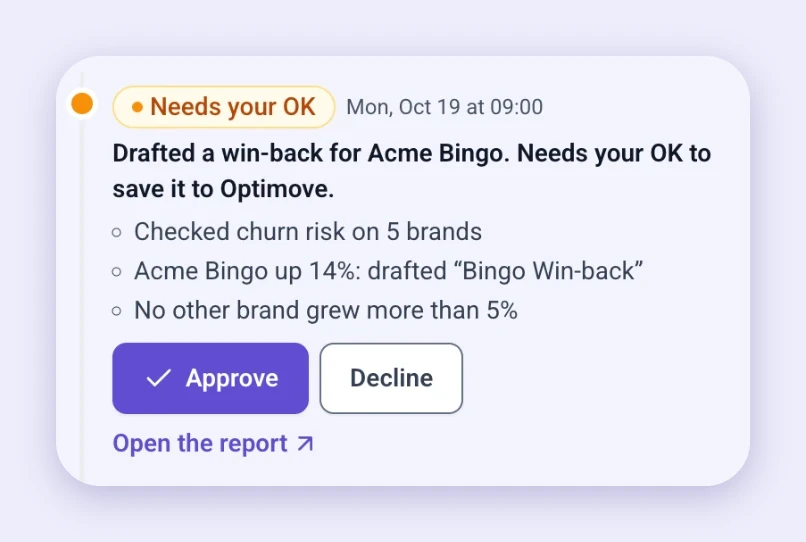
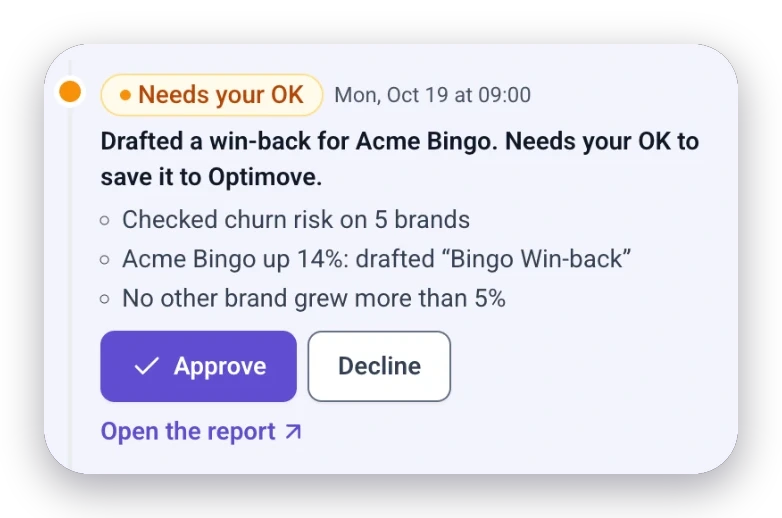
design(optigenie): decisions 01-03 smaller, more spacing, hairline before Instead of, transparent crops on a lavender panel

Changed region(s): [[0.0307, 0.1236, 0.9514, 0.9575], [0.1228, 0.556, 0.6445, 0.8649], [0.1228, 0.4015, 0.798, 0.5251]]

diff --git a/optigenie.html b/optigenie.html
@@ -370,7 +370,7 @@
 .ux-block-head { display: block; margin-bottom: clamp(2rem, 3vw, 3rem); }
 .ux-block-head p { margin-top: .9rem; max-width: 72ch; }
     </style>
-<style>.wireframe-study .wireframe-figure{margin:auto 0 0}.wireframe-study .ads-shot img{cursor:default}@media (min-width:721px){.ads-meta{grid-template-columns:repeat(3,minmax(0,1fr))}}.wireframe-grid.streams-three{grid-template-columns:repeat(3,minmax(0,1fr))}#build .ux-block{margin-top:var(--block-gap)}.ads-wrap > .media-story.media-story--lead{margin-top:0;padding-top:0;border-top:0}.media-story.media-story--lead .ads-h2{max-width:16ch;margin:0 0 1.5rem}@media (max-width:1100px){.wireframe-grid.streams-three{grid-template-columns:minmax(0,1fr)}}.princ,.story-phases article{border-top:0;padding-top:0}.intro-copy .ads-body + .ads-body{margin-top:1rem}#dry-run .story-opening--page + .case-figure,#decisions .story-opening--page + .case-figure{margin-top:clamp(2.5rem,4vw,4rem);padding-top:0;border-top:0}#decisions .case-figure + .case-figure{margin-top:clamp(1.5rem,2.5vw,2.5rem);padding-top:0;border-top:0}.story-phases h3{max-width:none}.og-instead{margin-top:1.25rem;color:var(--muted,#6b6a8a);font-size:.95rem}.og-instead span{display:block;color:var(--violet);font-size:.7rem;font-weight:600;letter-spacing:.12em;text-transform:uppercase;margin-bottom:.35rem}.story-opening--page .intro-copy{max-width:110ch}@media (min-width:1500px){.story-phases h3{white-space:nowrap}}@media (min-width:1100px){}</style>
+<style>.wireframe-study .wireframe-figure{margin:auto 0 0}.wireframe-study .ads-shot img{cursor:default}@media (min-width:721px){.ads-meta{grid-template-columns:repeat(3,minmax(0,1fr))}}.wireframe-grid.streams-three{grid-template-columns:repeat(3,minmax(0,1fr))}#build .ux-block{margin-top:var(--block-gap)}.ads-wrap > .media-story.media-story--lead{margin-top:0;padding-top:0;border-top:0}.media-story.media-story--lead .ads-h2{max-width:16ch;margin:0 0 1.5rem}@media (max-width:1100px){.wireframe-grid.streams-three{grid-template-columns:minmax(0,1fr)}}.princ,.story-phases article{border-top:0;padding-top:0}.intro-copy .ads-body + .ads-body{margin-top:1rem}#dry-run .story-opening--page + .case-figure,#decisions .story-opening--page + .case-figure{margin-top:clamp(2.5rem,4vw,4rem);padding-top:0;border-top:0}#decisions .case-figure + .case-figure{margin-top:clamp(1.5rem,2.5vw,2.5rem);padding-top:0;border-top:0}.story-phases h3{max-width:none}.og-decision{--case-columns:minmax(0,.9fr) minmax(0,1.1fr);align-items:center;gap:clamp(2.5rem,7vw,8rem);padding-block:clamp(3.5rem,6vw,6.5rem)}.og-decision .media-story-copy{max-width:30rem}.og-decision .media-story-copy h3{font-size:clamp(1.6rem,2.4vw,2.2rem);line-height:1.15;margin:0 0 1.25rem;max-width:14ch}.og-decision > .case-figure{max-width:min(100%,460px)!important;justify-self:center;width:100%}.og-decision .ads-shot{padding:clamp(.5rem,2vw,1.5rem);border-radius:28px;background:#ededfb}.og-decision .ads-shot img{display:block;width:100%;height:auto}.og-instead{margin-top:1.75rem;padding-top:1.25rem;border-top:1px solid var(--line);color:var(--muted);font-size:.95rem;line-height:1.55}.og-instead span{display:block;color:var(--violet);font-size:.7rem;font-weight:600;letter-spacing:.12em;text-transform:uppercase;margin-bottom:.4rem}.story-opening--page .intro-copy{max-width:110ch}@media (min-width:1500px){.story-phases h3{white-space:nowrap}}@media (min-width:1100px){}</style>
 <style>
 /* Animated pencil sketches (sketch_anim.py). Without the .is-armed hook everything is simply drawn. */
 @font-face{font-family:Caveat;font-style:normal;font-weight:500;font-display:swap;src:url(./assets/streams/caveat-500.ttf) format("truetype")}
@@ -898,7 +898,7 @@ body::after { content: ""; position: fixed; inset: 0; z-index: 9000; pointer-eve
             <p class="sub fade-up">OptiGenie is Optimove’s AI assistant for CRM marketers and the managers who follow their work. I led its first mobile app from the UX and feature set to the MVP.</p>
         </div></section>
         <section class="ads-sec ads-sec--mist" id="challenge" data-rail="The challenge"><div class="ads-wrap"><div class="story-opening story-opening--page story-opening--sketch"><div class="ads-head fade-up"><p class="ads-label page-chapter">The challenge</p><h2 class="ads-h2">Bringing OptiGenie to mobile</h2><p class="ads-body">OptiGenie 3.1 had grown on desktop, with memory, artifacts, dashboards and scheduled tasks, all inside one long conversation. I led its move to the phone, a strategic product for the company, from the first UX decisions and feature set to the MVP.</p><p class="ads-body">On the phone it serves two users with overlapping needs. CRM marketers want a fast, clear update and a bird’s-eye view of their brands and campaigns, then to act on what needs them. Managers want the picture of the marketing activity without running it. Rather than two apps, both start from the same summary and go as deep as they need: Dashboards for the view at a glance, Explore and Tasks for acting on it.</p><p class="ads-body">Three things made that hard.</p><p class="ads-body"><strong>A lot to look at, one right story.</strong> Optimove holds a lot of data and a lot of things to view: brands, campaigns, customers and channels, plus memory, artifacts, dashboards and tasks. On a small screen it can’t all be shown at once, so the app has to navigate it for the marketer and tell the right story: what changed, what matters and what needs them.</p><p class="ads-body"><strong>Answers came as paragraphs.</strong> The figures were right, but on a small screen the marketer read a wall of words to find the one number that mattered.</p><p class="ads-body"><strong>The AI acts on its own.</strong> Tasks run on a schedule and can change campaigns, so the marketer has to see what it did and decide what it may do without asking.</p><p class="ads-body">The work was to answer all three in one product for the phone, on the Optimove design system.</p></div><figure class="story-sketch fade-up" tabindex="0" aria-label="The challenge; scroll sideways on small screens"><svg class="mg" id="mg-og-challenge" viewBox="0 0 520 710" role="img" aria-label="OptiGenie 3.1 on desktop (memory, artifacts, dashboards and tasks) becomes one mobile app on the Optimove design system: Optimove's first mobile app, led from UX to MVP, and growing past the MVP." data-dur="7.6" xmlns="http://www.w3.org/2000/svg"><g aria-hidden="true"><g class="drop" style="--d:0.00s"><rect x="40" y="29" width="440" height="160" rx="16" fill="#aca4ea" stroke="#1d1850" stroke-width="2.0"/><rect x="40" y="20" width="440" height="160" rx="16" fill="#ffffff" stroke="#1d1850" stroke-width="2.0"/><path d="M51.2 23.2 H468.8" stroke="#ffffff" stroke-width="2.4" stroke-linecap="round" opacity=".75" fill="none"/><g transform="translate(260.0 60) scale(1.0)"><path class="tx" d="M-20 -14 H20 V10 H-20 Z" fill="#ffffff" stroke="none" style="--d:0.40s;--t:.3s"/><path class="dr" d="M-20 -14 H20 V10 H-20 Z" pathLength="1" fill="none" stroke="#1d1850" stroke-width="3.0" stroke-linecap="round" stroke-linejoin="round" style="--d:0.30s;--t:0.35s"/><path class="dr" d="M-6 10 V16 M6 10 V16 M-10 16 H10" pathLength="1" fill="none" stroke="#1d1850" stroke-width="3.0" stroke-linecap="round" stroke-linejoin="round" style="--d:0.42s;--t:0.35s"/></g><g class="pop" style="--d:0.45s"><circle cx="466" cy="26" r="17" fill="#4a37c9" stroke="#1d1850" stroke-width="2.0"/><circle cx="466" cy="22" r="17" fill="#8f7af8" stroke="#1d1850" stroke-width="2.0"/><g transform="translate(466 22) scale(0.45)"><path class="dr" d="M0 -18 C1.5 -6 6 -1.5 18 0 C6 1.5 1.5 6 0 18 C-1.5 6 -6 1.5 -18 0 C-6 -1.5 -1.5 -6 0 -18 Z" pathLength="1" fill="none" stroke="#ffffff" stroke-width="4.4" stroke-linecap="round" stroke-linejoin="round" style="--d:0.65s;--t:0.35s"/></g></g></g><text class="w" x="260.0" y="106" font-size="25" font-weight="800" text-anchor="middle" fill="#1d1850" data-max="416" style="--d:0.30s;--t:0.45s">OptiGenie 3.1</text><text class="tx mut" x="260.0" y="133" font-size="16" font-weight="500" text-anchor="middle" fill="#1d1850" data-max="416" style="--d:0.45s;--t:0.40s">on desktop: memory, artifacts,</text><text class="tx mut" x="260.0" y="155" font-size="16" font-weight="500" text-anchor="middle" fill="#1d1850" data-max="416" style="--d:0.53s;--t:0.40s">dashboards and tasks</text><path class="dr" d="M260 194 Q260.0 215.0 260 236" pathLength="1" fill="none" stroke="#1d1850" stroke-width="2.8" stroke-linecap="round" style="--d:0.70s;--t:0.30s"/><path class="dr" d="M254.7 226.3 L260 236 L265.3 226.3" pathLength="1" fill="none" stroke="#1d1850" stroke-width="2.8" stroke-linecap="round" stroke-linejoin="round" style="--d:0.94s;--t:.2s"/><g class="drop" style="--d:1.00s"><rect x="40" y="259" width="440" height="160" rx="16" fill="#c6e92b" stroke="#1d1850" stroke-width="2.0"/><rect x="40" y="250" width="440" height="160" rx="16" fill="#ffffff" stroke="#1d1850" stroke-width="2.0"/><path d="M51.2 253.2 H468.8" stroke="#ffffff" stroke-width="2.4" stroke-linecap="round" opacity=".75" fill="none"/><g transform="translate(260.0 290) scale(1.0)"><path class="tx" d="M-12 -20 H12 V20 H-12 Z" fill="#ffffff" stroke="none" style="--d:1.40s;--t:.3s"/><path class="dr" d="M-12 -20 H12 V20 H-12 Z" pathLength="1" fill="none" stroke="#1d1850" stroke-width="3.0" stroke-linecap="round" stroke-linejoin="round" style="--d:1.30s;--t:0.35s"/><path class="dr" d="M-4 15 H4" pathLength="1" fill="none" stroke="#1d1850" stroke-width="3.0" stroke-linecap="round" stroke-linejoin="round" style="--d:1.42s;--t:0.35s"/></g></g><text class="w" x="260.0" y="336" font-size="25" font-weight="800" text-anchor="middle" fill="#1d1850" data-max="416" style="--d:1.30s;--t:0.45s">One mobile app</text><text class="tx mut" x="260.0" y="363" font-size="16" font-weight="500" text-anchor="middle" fill="#1d1850" data-max="416" style="--d:1.45s;--t:0.40s">on the Optimove</text><text class="tx mut" x="260.0" y="385" font-size="16" font-weight="500" text-anchor="middle" fill="#1d1850" data-max="416" style="--d:1.53s;--t:0.40s">design system</text><path class="dr" d="M260 424 Q260.0 445.0 260 466" pathLength="1" fill="none" stroke="#1d1850" stroke-width="2.8" stroke-linecap="round" style="--d:1.70s;--t:0.30s"/><path class="dr" d="M254.7 456.3 L260 466 L265.3 456.3" pathLength="1" fill="none" stroke="#1d1850" stroke-width="2.8" stroke-linecap="round" stroke-linejoin="round" style="--d:1.94s;--t:.2s"/><g class="drop" style="--d:2.00s"><rect x="40" y="489" width="440" height="160" rx="16" fill="#aca4ea" stroke="#1d1850" stroke-width="2.0"/><rect x="40" y="480" width="440" height="160" rx="16" fill="#ffffff" stroke="#1d1850" stroke-width="2.0"/><path d="M51.2 483.2 H468.8" stroke="#ffffff" stroke-width="2.4" stroke-linecap="round" opacity=".75" fill="none"/><g transform="translate(260.0 520) scale(1.0)"><path class="tx" d="M-18 0 a18 18 0 1 0 36 0 a18 18 0 1 0 -36 0" fill="#ffffff" stroke="none" style="--d:2.40s;--t:.3s"/><path class="dr" d="M-18 0 a18 18 0 1 0 36 0 a18 18 0 1 0 -36 0" pathLength="1" fill="none" stroke="#1d1850" stroke-width="3.0" stroke-linecap="round" stroke-linejoin="round" style="--d:2.30s;--t:0.35s"/><path class="dr" d="M-5 -8 L9 0 L-5 8 Z" pathLength="1" fill="none" stroke="#1d1850" stroke-width="3.0" stroke-linecap="round" stroke-linejoin="round" style="--d:2.42s;--t:0.35s"/></g></g><text class="w" x="260.0" y="566" font-size="25" font-weight="800" text-anchor="middle" fill="#1d1850" data-max="416" style="--d:2.30s;--t:0.45s">A strategic first</text><text class="tx mut" x="260.0" y="593" font-size="16" font-weight="500" text-anchor="middle" fill="#1d1850" data-max="416" style="--d:2.45s;--t:0.40s">Optimove’s first mobile app,</text><text class="tx mut" x="260.0" y="615" font-size="16" font-weight="500" text-anchor="middle" fill="#1d1850" data-max="416" style="--d:2.53s;--t:0.40s">led from UX to MVP</text><text class="tx mut" x="260" y="690" font-size="17" font-weight="600" text-anchor="middle" fill="#1d1850" data-max="400" style="--d:2.70s;--t:0.40s">and growing past the MVP</text></g></svg></figure></div></div></section>
-        <section class="ads-sec" id="discovery" data-rail="Discovery &amp; definition"><div class="ads-wrap"><p class="ads-label page-chapter fade-up">Discovery &amp; definition</p><div class="story-opening story-opening--page story-opening--stack"><div class="ads-head fade-up"><h2 class="ads-h2">Main UX decisions</h2></div><div class="intro-copy fade-up"><p class="ads-body">Bringing OptiGenie 3.1 from desktop to the phone meant more than fitting it on a smaller screen. On desktop it is a long conversation in a wide window; on a phone, a visit is often a quick check. Every call came back to one question: what does the marketer need in the first few seconds, and what can wait a tap away. These are the decisions that shaped the app most: where you start, where things live, what the AI does on its own, and how it shows an answer.</p></div></div><div class="media-story og-decision"><div class="media-story-copy fade-up"><div><p class="media-kicker">01 · Starting point</p><h3>Open on what matters</h3></div><div><p>The home says what OptiGenie can do and what is coming up next, and suggests the questions worth asking.</p><p class="og-instead"><span>Instead of</span> an empty box waiting for the right question.</p></div></div><figure class="case-figure fade-up" style="--media-max:520px"><div class="ads-shot"><img loading="lazy" decoding="async" src="./assets/optigenie/dec-home.webp?v=6edd2babd0c8" width="824" height="962" alt="The OptiGenie home: a greeting, the next scheduled tasks under Coming up, and two suggested questions."></div></figure></div><div class="media-story og-decision"><div class="media-story-copy fade-up"><div><p class="media-kicker">02 · Structure</p><h3>Explore and Dashboards as tabs</h3></div><div><p>Marketers ask new questions, and they check the same numbers every morning. The views they follow get their own tab, refreshed on a schedule, a swipe from where they ask: the conversation is the way in, not the whole product. Everything else sits in one menu, on every screen.</p><p class="og-instead"><span>Instead of</span> one long chat history that holds everything.</p></div></div><figure class="case-figure fade-up" style="--media-max:520px"><div class="ads-shot"><img loading="lazy" decoding="async" src="./assets/optigenie/dec-tabs.webp?v=eec76aa0785e" width="826" height="1182" alt="The Dashboards tab: a live Deposits yesterday dashboard with its chart and refresh time, and the Explore and Dashboards switch at the bottom."></div></figure></div><div class="media-story og-decision"><div class="media-story-copy fade-up"><div><p class="media-kicker">03 · Trust</p><h3>Visible steps, approval by choice</h3></div><div><p>OptiGenie shows the steps it takes while it works. Whether a task asks before it changes anything in Optimove is the marketer’s call: Ask me first or Run on its own. Sending to customers always asks.</p><p class="og-instead"><span>Instead of</span> an AI that acts without showing what it did.</p></div></div><figure class="case-figure fade-up" style="--media-max:620px"><div class="ads-shot"><img loading="lazy" decoding="async" src="./assets/optigenie/dec-approval.webp?v=eee7fd296569" width="806" height="542" alt="A task run that Needs your OK: the steps OptiGenie took, a drafted win-back, and Approve and Decline buttons."></div></figure></div><div class="media-story"><div class="media-story-copy fade-up"><div><p class="media-kicker">04 · Answers</p><h3>Answers you can see, not read</h3></div><div><p>The same answer, twice, with the same figures. Written as paragraphs, on the left, everything is there and the marketer has to dig for it. Built as UI, on the right, it opens on one sentence that makes the point, then each figure takes the form that fits it: a big number for yesterday, bars for the week, KPI cards with their change for the period. Words are kept for what a chart can’t say: why it moved and what to do next.</p></div></div><figure class="case-figure fade-up" style="--media-max:900px"><div class="ads-shot" data-full="./assets/optigenie/answers-text-vs-ui.webp?v=6848a3ed656a" data-width="1896" data-height="1692" data-title="The same answer as text and as UI"><img loading="lazy" decoding="async" src="./assets/optigenie/answers-text-vs-ui.webp?v=6848a3ed656a" width="1896" height="1692" alt="Two phones answering How are my brands doing? with the same figures. Left: six paragraphs of text. Right: one sentence with the point, a deposits card with €748.4K and a bar for each day, and KPI cards for net revenue €2.66M up 6.5% and revenue per customer €45 up 10.1%."></div></figure></div></div></section>
+        <section class="ads-sec" id="discovery" data-rail="Discovery &amp; definition"><div class="ads-wrap"><p class="ads-label page-chapter fade-up">Discovery &amp; definition</p><div class="story-opening story-opening--page story-opening--stack"><div class="ads-head fade-up"><h2 class="ads-h2">Main UX decisions</h2></div><div class="intro-copy fade-up"><p class="ads-body">Bringing OptiGenie 3.1 from desktop to the phone meant more than fitting it on a smaller screen. On desktop it is a long conversation in a wide window; on a phone, a visit is often a quick check. Every call came back to one question: what does the marketer need in the first few seconds, and what can wait a tap away. These are the decisions that shaped the app most: where you start, where things live, what the AI does on its own, and how it shows an answer.</p></div></div><div class="media-story og-decision"><div class="media-story-copy fade-up"><div><p class="media-kicker">01 · Starting point</p><h3>Open on what matters</h3></div><div><p>The home says what OptiGenie can do and what is coming up next, and suggests the questions worth asking.</p><p class="og-instead"><span>Instead of</span> an empty box waiting for the right question.</p></div></div><figure class="case-figure fade-up" style="--media-max:520px"><div class="ads-shot"><img loading="lazy" decoding="async" src="./assets/optigenie/dec-home.webp?v=672947592bf2" width="800" height="938" alt="The OptiGenie home: a greeting, the next scheduled tasks under Coming up, and two suggested questions."></div></figure></div><div class="media-story og-decision"><div class="media-story-copy fade-up"><div><p class="media-kicker">02 · Structure</p><h3>Explore and Dashboards as tabs</h3></div><div><p>Marketers ask new questions, and they check the same numbers every morning. The views they follow get their own tab, refreshed on a schedule, a swipe from where they ask: the conversation is the way in, not the whole product. Everything else sits in one menu, on every screen.</p><p class="og-instead"><span>Instead of</span> one long chat history that holds everything.</p></div></div><figure class="case-figure fade-up" style="--media-max:520px"><div class="ads-shot"><img loading="lazy" decoding="async" src="./assets/optigenie/dec-tabs.webp?v=5454b1a1668f" width="802" height="1158" alt="The Dashboards tab: a live Deposits yesterday dashboard with its chart and refresh time, and the Explore and Dashboards switch at the bottom."></div></figure></div><div class="media-story og-decision"><div class="media-story-copy fade-up"><div><p class="media-kicker">03 · Trust</p><h3>Visible steps, approval by choice</h3></div><div><p>OptiGenie shows the steps it takes while it works. Whether a task asks before it changes anything in Optimove is the marketer’s call: Ask me first or Run on its own. Sending to customers always asks.</p><p class="og-instead"><span>Instead of</span> an AI that acts without showing what it did.</p></div></div><figure class="case-figure fade-up" style="--media-max:620px"><div class="ads-shot"><img loading="lazy" decoding="async" src="./assets/optigenie/dec-approval.webp?v=6fe26c807a85" width="782" height="518" alt="A task run that Needs your OK: the steps OptiGenie took, a drafted win-back, and Approve and Decline buttons."></div></figure></div><div class="media-story"><div class="media-story-copy fade-up"><div><p class="media-kicker">04 · Answers</p><h3>Answers you can see, not read</h3></div><div><p>The same answer, twice, with the same figures. Written as paragraphs, on the left, everything is there and the marketer has to dig for it. Built as UI, on the right, it opens on one sentence that makes the point, then each figure takes the form that fits it: a big number for yesterday, bars for the week, KPI cards with their change for the period. Words are kept for what a chart can’t say: why it moved and what to do next.</p></div></div><figure class="case-figure fade-up" style="--media-max:900px"><div class="ads-shot" data-full="./assets/optigenie/answers-text-vs-ui.webp?v=6848a3ed656a" data-width="1896" data-height="1692" data-title="The same answer as text and as UI"><img loading="lazy" decoding="async" src="./assets/optigenie/answers-text-vs-ui.webp?v=6848a3ed656a" width="1896" height="1692" alt="Two phones answering How are my brands doing? with the same figures. Left: six paragraphs of text. Right: one sentence with the point, a deposits card with €748.4K and a bar for each day, and KPI cards for net revenue €2.66M up 6.5% and revenue per customer €45 up 10.1%."></div></figure></div></div></section>
         <section class="ads-sec ads-sec--mist" id="ux-process" data-rail="UX decisions &amp; flows"><div class="ads-wrap"><p class="ads-label page-chapter fade-up">UX decisions &amp; flows</p><div class="story-opening story-opening--page story-opening--sketch"><div class="ads-head fade-up"><h2 class="ads-h2">Navigation model</h2><p class="ads-body">Every screen is a step from Explore or Dashboards, and the menu opens from all of them. Back always goes up one level: a task returns to the task list, a dashboard opened from the full list returns there.</p><p class="ads-body">Swipe and tap do the same thing, with the same motion, so the two never feel like different actions.</p></div><figure class="story-sketch fade-up" tabindex="0" aria-label="App map; scroll sideways on small screens"><svg class="mg" id="mg-og-flow" viewBox="0 0 1200 500" role="img" aria-label="Sign-in leads to Explore, which swaps with Dashboards by a swipe. Explore opens an answer that can be saved as a dashboard; Dashboards opens a live dashboard. The menu opens from every screen and holds Tasks, Artifacts, Chats and Settings. Back always goes up one level." data-dur="7.6" xmlns="http://www.w3.org/2000/svg"><g aria-hidden="true"><g class="drop" style="--d:0.00s"><rect x="20" y="69" width="210" height="150" rx="16" fill="#aca4ea" stroke="#1d1850" stroke-width="2.0"/><rect x="20" y="60" width="210" height="150" rx="16" fill="#ffffff" stroke="#1d1850" stroke-width="2.0"/><path d="M31.2 63.2 H218.8" stroke="#ffffff" stroke-width="2.4" stroke-linecap="round" opacity=".75" fill="none"/><g transform="translate(125.0 100) scale(1.0)"><path class="tx" d="M-16 -6 a16 16 0 0 1 32 0 V14 H-16 Z" fill="#ffffff" stroke="none" style="--d:0.40s;--t:.3s"/><path class="dr" d="M-16 -6 a16 16 0 0 1 32 0 V14 H-16 Z" pathLength="1" fill="none" stroke="#1d1850" stroke-width="3.0" stroke-linecap="round" stroke-linejoin="round" style="--d:0.30s;--t:0.35s"/><path class="dr" d="M-6 -6 a6 6 0 0 1 12 0" pathLength="1" fill="none" stroke="#1d1850" stroke-width="3.0" stroke-linecap="round" stroke-linejoin="round" style="--d:0.42s;--t:0.35s"/></g></g><text class="w" x="125.0" y="146" font-size="25" font-weight="800" text-anchor="middle" fill="#1d1850" data-max="186" style="--d:0.30s;--t:0.45s">Sign-in</text><text class="tx mut" x="125.0" y="173" font-size="16" font-weight="500" text-anchor="middle" fill="#1d1850" data-max="186" style="--d:0.45s;--t:0.40s">once, then remembered</text><path class="dr" d="M240 135 Q270.0 135.0 300 135" pathLength="1" fill="none" stroke="#1d1850" stroke-width="2.8" stroke-linecap="round" style="--d:0.50s;--t:0.30s"/><path class="dr" d="M291.2 139.8 L300 135 L291.2 130.2" pathLength="1" fill="none" stroke="#1d1850" stroke-width="2.8" stroke-linecap="round" stroke-linejoin="round" style="--d:0.74s;--t:.2s"/><g class="drop" style="--d:0.70s"><rect x="310" y="69" width="210" height="150" rx="16" fill="#aca4ea" stroke="#1d1850" stroke-width="2.0"/><rect x="310" y="60" width="210" height="150" rx="16" fill="#ffffff" stroke="#1d1850" stroke-width="2.0"/><path d="M321.2 63.2 H508.8" stroke="#ffffff" stroke-width="2.4" stroke-linecap="round" opacity=".75" fill="none"/><g transform="translate(415.0 100) scale(1.0)"><path class="tx" d="M-19 -15 H19 V8 H-4 L-13 17 V8 H-19 Z" fill="#ffffff" stroke="none" style="--d:1.10s;--t:.3s"/><path class="dr" d="M-19 -15 H19 V8 H-4 L-13 17 V8 H-19 Z" pathLength="1" fill="none" stroke="#1d1850" stroke-width="3.0" stroke-linecap="round" stroke-linejoin="round" style="--d:1.00s;--t:0.35s"/><path class="dr" d="M-10 -4 H10" pathLength="1" fill="none" stroke="#1d1850" stroke-width="3.0" stroke-linecap="round" stroke-linejoin="round" style="--d:1.12s;--t:0.35s"/><path class="dr" d="M-10 2 H4" pathLength="1" fill="none" stroke="#1d1850" stroke-width="3.0" stroke-linecap="round" stroke-linejoin="round" style="--d:1.24s;--t:0.35s"/></g></g><text class="w" x="415.0" y="146" font-size="25" font-weight="800" text-anchor="middle" fill="#1d1850" data-max="186" style="--d:1.00s;--t:0.45s">Explore</text><text class="tx mut" x="415.0" y="173" font-size="16" font-weight="500" text-anchor="middle" fill="#1d1850" data-max="186" style="--d:1.15s;--t:0.40s">ask</text><g class="drop" style="--d:1.10s"><rect x="600" y="69" width="210" height="150" rx="16" fill="#c6e92b" stroke="#1d1850" stroke-width="2.0"/><rect x="600" y="60" width="210" height="150" rx="16" fill="#ffffff" stroke="#1d1850" stroke-width="2.0"/><path d="M611.2 63.2 H798.8" stroke="#ffffff" stroke-width="2.4" stroke-linecap="round" opacity=".75" fill="none"/><g transform="translate(705.0 100) scale(1.0)"><path class="dr" d="M-15 15 V3" pathLength="1" fill="none" stroke="#1d1850" stroke-width="3.0" stroke-linecap="round" stroke-linejoin="round" style="--d:1.40s;--t:0.35s"/><path class="dr" d="M-5 15 V-7" pathLength="1" fill="none" stroke="#1d1850" stroke-width="3.0" stroke-linecap="round" stroke-linejoin="round" style="--d:1.52s;--t:0.35s"/><path class="dr" d="M5 15 V-1" pathLength="1" fill="none" stroke="#1d1850" stroke-width="3.0" stroke-linecap="round" stroke-linejoin="round" style="--d:1.64s;--t:0.35s"/><path class="dr" d="M15 15 V-15" pathLength="1" fill="none" stroke="#1d1850" stroke-width="3.0" stroke-linecap="round" stroke-linejoin="round" style="--d:1.76s;--t:0.35s"/><path class="dr" d="M-20 15 H20" pathLength="1" fill="none" stroke="#1d1850" stroke-width="3.0" stroke-linecap="round" stroke-linejoin="round" style="--d:1.88s;--t:0.35s"/></g></g><text class="w" x="705.0" y="146" font-size="25" font-weight="800" text-anchor="middle" fill="#1d1850" data-max="186" style="--d:1.40s;--t:0.45s">Dashboards</text><text class="tx mut" x="705.0" y="173" font-size="16" font-weight="500" text-anchor="middle" fill="#1d1850" data-max="186" style="--d:1.55s;--t:0.40s">follow</text><path class="dr" d="M530 118 Q560.0 118.0 590 118" pathLength="1" fill="none" stroke="#1d1850" stroke-width="2.8" stroke-linecap="round" style="--d:1.50s;--t:0.25s"/><path class="dr" d="M581.2 122.8 L590 118 L581.2 113.2" pathLength="1" fill="none" stroke="#1d1850" stroke-width="2.8" stroke-linecap="round" stroke-linejoin="round" style="--d:1.70s;--t:.2s"/><path class="dr" d="M590 152 Q560.0 152.0 530 152" pathLength="1" fill="none" stroke="#1d1850" stroke-width="2.8" stroke-linecap="round" style="--d:1.60s;--t:0.25s"/><path class="dr" d="M538.8 147.2 L530 152 L538.8 156.8" pathLength="1" fill="none" stroke="#1d1850" stroke-width="2.8" stroke-linecap="round" stroke-linejoin="round" style="--d:1.80s;--t:.2s"/><text class="tx mut" x="560" y="190" font-size="17" font-weight="600" text-anchor="middle" fill="#1d1850" data-max="80" style="--d:1.70s;--t:0.40s">swipe</text><path class="dr" d="M415 226 Q415.0 256.0 415 286" pathLength="1" fill="none" stroke="#1d1850" stroke-width="2.8" stroke-linecap="round" style="--d:1.90s;--t:0.30s"/><path class="dr" d="M410.2 277.2 L415 286 L419.8 277.2" pathLength="1" fill="none" stroke="#1d1850" stroke-width="2.8" stroke-linecap="round" stroke-linejoin="round" style="--d:2.14s;--t:.2s"/><path class="dr" d="M705 226 Q705.0 256.0 705 286" pathLength="1" fill="none" stroke="#1d1850" stroke-width="2.8" stroke-linecap="round" style="--d:2.00s;--t:0.30s"/><path class="dr" d="M700.2 277.2 L705 286 L709.8 277.2" pathLength="1" fill="none" stroke="#1d1850" stroke-width="2.8" stroke-linecap="round" stroke-linejoin="round" style="--d:2.24s;--t:.2s"/><g class="drop" style="--d:2.20s"><rect x="310" y="305" width="210" height="120" rx="16" fill="#aca4ea" stroke="#1d1850" stroke-width="2.0"/><rect x="310" y="296" width="210" height="120" rx="16" fill="#ffffff" stroke="#1d1850" stroke-width="2.0"/><path d="M321.2 299.2 H508.8" stroke="#ffffff" stroke-width="2.4" stroke-linecap="round" opacity=".75" fill="none"/></g><text class="w" x="415.0" y="346" font-size="25" font-weight="800" text-anchor="middle" fill="#1d1850" data-max="186" style="--d:2.50s;--t:0.45s">Answer</text><text class="tx mut" x="415.0" y="373" font-size="16" font-weight="500" text-anchor="middle" fill="#1d1850" data-max="186" style="--d:2.65s;--t:0.40s">save it as a dashboard</text><g class="drop" style="--d:2.40s"><rect x="600" y="305" width="210" height="120" rx="16" fill="#aca4ea" stroke="#1d1850" stroke-width="2.0"/><rect x="600" y="296" width="210" height="120" rx="16" fill="#ffffff" stroke="#1d1850" stroke-width="2.0"/><path d="M611.2 299.2 H798.8" stroke="#ffffff" stroke-width="2.4" stroke-linecap="round" opacity=".75" fill="none"/></g><text class="w" x="705.0" y="346" font-size="25" font-weight="800" text-anchor="middle" fill="#1d1850" data-max="186" style="--d:2.70s;--t:0.45s">Dashboard</text><text class="tx mut" x="705.0" y="373" font-size="16" font-weight="500" text-anchor="middle" fill="#1d1850" data-max="186" style="--d:2.85s;--t:0.40s">live, on a schedule</text><g class="drop" style="--d:2.80s"><rect x="950" y="69" width="230" height="150" rx="16" fill="#aca4ea" stroke="#1d1850" stroke-width="2.0"/><rect x="950" y="60" width="230" height="150" rx="16" fill="#ffffff" stroke="#1d1850" stroke-width="2.0"/><path d="M961.2 63.2 H1168.8" stroke="#ffffff" stroke-width="2.4" stroke-linecap="round" opacity=".75" fill="none"/><g transform="translate(1065.0 100) scale(1.0)"><path class="dr" d="M-15 -9 H15" pathLength="1" fill="none" stroke="#1d1850" stroke-width="3.0" stroke-linecap="round" stroke-linejoin="round" style="--d:3.10s;--t:0.35s"/><path class="dr" d="M-15 0 H15" pathLength="1" fill="none" stroke="#1d1850" stroke-width="3.0" stroke-linecap="round" stroke-linejoin="round" style="--d:3.22s;--t:0.35s"/><path class="dr" d="M-15 9 H15" pathLength="1" fill="none" stroke="#1d1850" stroke-width="3.0" stroke-linecap="round" stroke-linejoin="round" style="--d:3.34s;--t:0.35s"/></g></g><text class="w" x="1065.0" y="146" font-size="25" font-weight="800" text-anchor="middle" fill="#1d1850" data-max="206" style="--d:3.10s;--t:0.45s">Menu</text><text class="tx mut" x="1065.0" y="173" font-size="16" font-weight="500" text-anchor="middle" fill="#1d1850" data-max="206" style="--d:3.25s;--t:0.40s">from every screen</text><path class="dr" d="M830 135 Q884.0 135.0 938 135" pathLength="1" fill="none" stroke="#1d1850" stroke-width="2.8" stroke-linecap="round" style="--d:3.10s;--t:0.35s"/><path class="dr" d="M928.3 140.3 L938 135 L928.3 129.7" pathLength="1" fill="none" stroke="#1d1850" stroke-width="2.8" stroke-linecap="round" stroke-linejoin="round" style="--d:3.38s;--t:.2s"/><path class="dr" d="M1065 226 Q1065.0 256.0 1065 286" pathLength="1" fill="none" stroke="#1d1850" stroke-width="2.8" stroke-linecap="round" style="--d:3.40s;--t:0.30s"/><path class="dr" d="M1060.2 277.2 L1065 286 L1069.8 277.2" pathLength="1" fill="none" stroke="#1d1850" stroke-width="2.8" stroke-linecap="round" stroke-linejoin="round" style="--d:3.64s;--t:.2s"/><g class="drop" style="--d:3.60s"><rect x="950" y="305" width="230" height="160" rx="16" fill="#aca4ea" stroke="#1d1850" stroke-width="2.0"/><rect x="950" y="296" width="230" height="160" rx="16" fill="#ffffff" stroke="#1d1850" stroke-width="2.0"/><path d="M961.2 299.2 H1168.8" stroke="#ffffff" stroke-width="2.4" stroke-linecap="round" opacity=".75" fill="none"/></g><text class="tx" x="980" y="332" font-size="19" font-weight="700" text-anchor="start" fill="#1d1850" data-max="180" style="--d:3.80s;--t:0.35s">Tasks</text><text class="tx" x="980" y="364" font-size="19" font-weight="700" text-anchor="start" fill="#1d1850" data-max="180" style="--d:3.90s;--t:0.35s">Artifacts</text><text class="tx" x="980" y="396" font-size="19" font-weight="700" text-anchor="start" fill="#1d1850" data-max="180" style="--d:4.00s;--t:0.35s">Chats</text><text class="tx" x="980" y="428" font-size="19" font-weight="700" text-anchor="start" fill="#1d1850" data-max="180" style="--d:4.10s;--t:0.35s">Settings</text><text class="tx mut" x="560" y="470" font-size="17" font-weight="600" text-anchor="middle" fill="#1d1850" data-max="520" style="--d:4.40s;--t:0.40s">back always goes up one level, by swipe or tap</text></g></svg></figure></div></div></section>
         <section class="ads-sec" id="ask" data-rail="Explore"><div class="ads-wrap"><p class="ads-label page-chapter fade-up">Explore</p><div class="media-story media-story--lead"><div class="media-story-copy fade-up"><div><h2 class="ads-h2">Answer layout</h2></div><div><p>The home opens on what is coming up and questions worth asking. Each answer follows decision 04: it leads with its point and key figure, then the chart that fits the data, with the steps OptiGenie took one tap away, so the marketer can check how it got there.</p></div></div><figure class="case-figure fade-up" style="--media-max:900px"><div class="ads-shot" data-full="./assets/optigenie/set-explore.webp?v=e248af05323f" data-width="1896" data-height="1692" data-title="Explore"><img loading="lazy" decoding="async" src="./assets/optigenie/set-explore.webp?v=e248af05323f" width="1896" height="1692" alt="The Explore home with upcoming tasks and suggested questions, and the answer to How are my brands doing?: deposits up 3.6% across five brands, a chart of yesterday’s deposits and the dashboard KPIs."></div></figure></div><div class="media-story"><div class="media-story-copy fade-up"><div><p class="media-kicker">From an answer</p><h3>Save as dashboard</h3></div><div><p>Any answer can become a dashboard. Pick how often it refreshes, and it joins the views you follow.</p></div></div><figure class="case-figure fade-up" style="--media-max:620px"><div class="ads-shot recording-frame" data-title="A churn question is asked, then the answer is saved as a dashboard that refreshes every day."><video src="./assets/optigenie/og-save.mp4?v=1be249759f98" poster="./assets/optigenie/og-save-poster.webp?v=13d20621507e" width="1896" height="1692" loop muted playsinline preload="none" aria-label="A churn question is asked, then the answer is saved as a dashboard that refreshes every day."></video></div></figure></div></div></section>
         <section class="ads-sec ads-sec--mist" id="dashboards" data-rail="Dashboards"><div class="ads-wrap"><p class="ads-label page-chapter fade-up">Dashboards</p><div class="media-story media-story--lead"><div class="media-story-copy fade-up"><div><h2 class="ads-h2">Dashboard creation</h2></div><div><p>Creating a dashboard shows OptiGenie working through it: what it reads, how it groups the data, which charts it picks and when it refreshes. Then it joins the tab, which opens on the views you follow, the next one peeking at the edge; a swipe moves between them and a tap opens one live. The numbers a marketer checks every morning shouldn’t need asking again, so they live in their own tab, not in chat history.</p></div></div><figure class="case-figure fade-up og-pair2"><div class="ads-shot recording-frame"><video src="./assets/optigenie/og-dash-build.mp4?v=ac68aaa19cb9" poster="./assets/optigenie/og-dash-build-poster.webp?v=bc414f184541" width="1000" height="1692" loop muted playsinline preload="none" aria-label="Promotions that work, by brand is typed in Dashboards, and OptiGenie builds it step by step."></video></div><div class="ads-shot recording-frame"><video src="./assets/optigenie/og-dash-swipe.mp4?v=1fd32f463b19" poster="./assets/optigenie/og-dash-swipe-poster.webp?v=912c43f8ae97" width="1000" height="1692" loop muted playsinline preload="none" aria-label="The Dashboards tab: a swipe through the live dashboards, then KPI trends opens."></video></div></figure></div></div></section>
